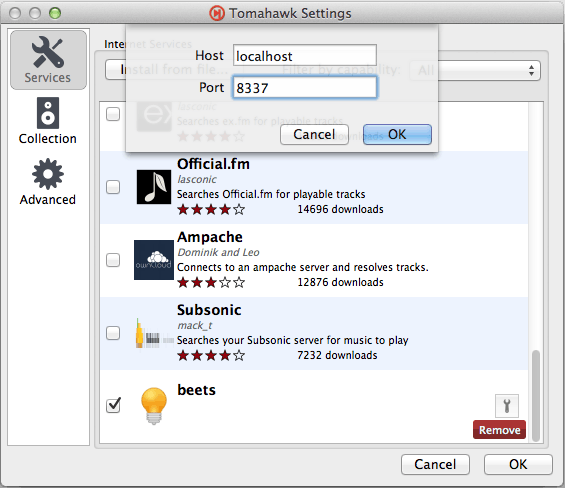
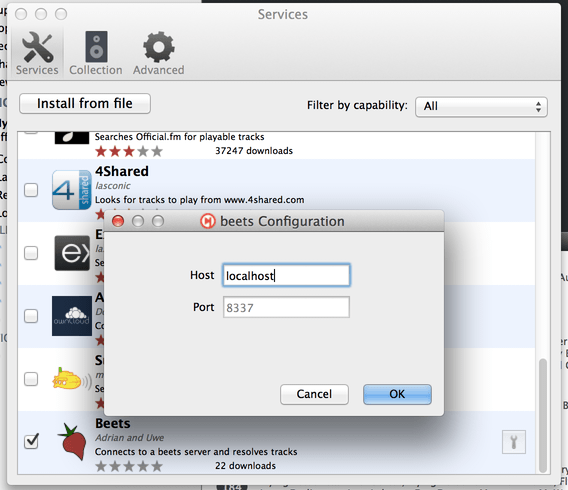
update Tomahawk blog post
- New screenshot
- No longer need to check out the source from GitHub
- New config filename

diff --git a/_posts/2012-08-03-tomahawk-resolver.md b/_posts/2012-08-03-tomahawk-resolver.md
@@ -7,13 +7,11 @@ Beets is a music library manager---not, for the most part, a music player. It do
 
 [Tomahawk][] is one particularly exciting new open-source music player. The magic of Tomahawk lies in its ability to consolidate many sources of music into a single player interface. (It's also a very nicely-designed, cross-platform player even if you don't count the magic.) To integrate new sources of music with Tomahawk, you just have to provide a [resolver][]: a piece of code that searches for music and gives it to Tomahawk to display and play back.
 
-There's now a [beets Tomahawk resolver][beets resolver] that can hook your meticulously organized beets music library into the Tomahawk interface. And it even works remotely, so you can stream music from a server running beets to a different machine running Tomahawk.
+There's now a beets Tomahawk resolver that can hook your meticulously organized beets music library into the Tomahawk interface. And it even works remotely, so you can stream music from a server running beets to a different machine running Tomahawk.
 
-To use the resolver, first run the [beets Web plugin][web] on the machine with your music. Just add `web` to your "plugins" line in [~/.beetsconfig][config] and then run `beet web` to start the server. Then, on the machine running Tomahawk (this might, of course, be the same computer), get a copy the resolver repository. For example:
+To use the resolver, first run the [beets Web plugin][web] on the machine with your music. Just add `web` to your "plugins" line in your [config file][config] and then run `beet web` to start the server.
 
-    git clone git://github.com/tomahawk-player/tomahawk-resolvers.git
-
-Then, open the Tomahawk settings and add a new service using the "Install from file..." button. Navigate to `tomahawk-resolvers/beets` and choose the `beets.js` file. Then, click the wrench icon next to the beets resolver to configure it:
+Then, open the Tomahawk settings and check the beets service. Click the wrench icon next to the beets resolver to configure it:
 
 ![Configuring the beets Tomahawk resolver.](/images/tomahawk-resolver-config.png)
 
@@ -21,14 +19,10 @@ You'll need to enter the hostname and port of the beets Web server. (You don't n
 
 Tomahawk will now be able to find tracks from your beets library. Type a query into the "global search" box and rock out.
 
-If you have trouble getting the beets resolver to work, try the latest [nightly Tomahawk build][nightly]. Some users have better luck with the cutting-edge version.
-
-[nightly]: http://download.tomahawk-player.org/nightly/
-[beets resolver]: https://github.com/sampsyo/beets/tree/master/extra/beets-resolver
 [resolver]: http://www.tomahawk-player.org/resolvers.html
 [Tomahawk]: http://www.tomahawk-player.org/
-[bpd]: http://readthedocs.org/docs/beets/-/plugins/bpd.html
-[web]: http://readthedocs.org/docs/beets/-/plugins/web.html
-[config]: http://readthedocs.org/docs/beets/-/reference/config.html
+[bpd]: http://beets.readthedocs.org/page/plugins/bpd.html
+[web]: http://beets.readthedocs.org/page/plugins/web.html
+[config]: http://beets.readthedocs.org/page/reference/config.html
 [git]: https://github.com/sampsyo/beets
 [mercurial]: https://bitbucket.org/adrian/beets
